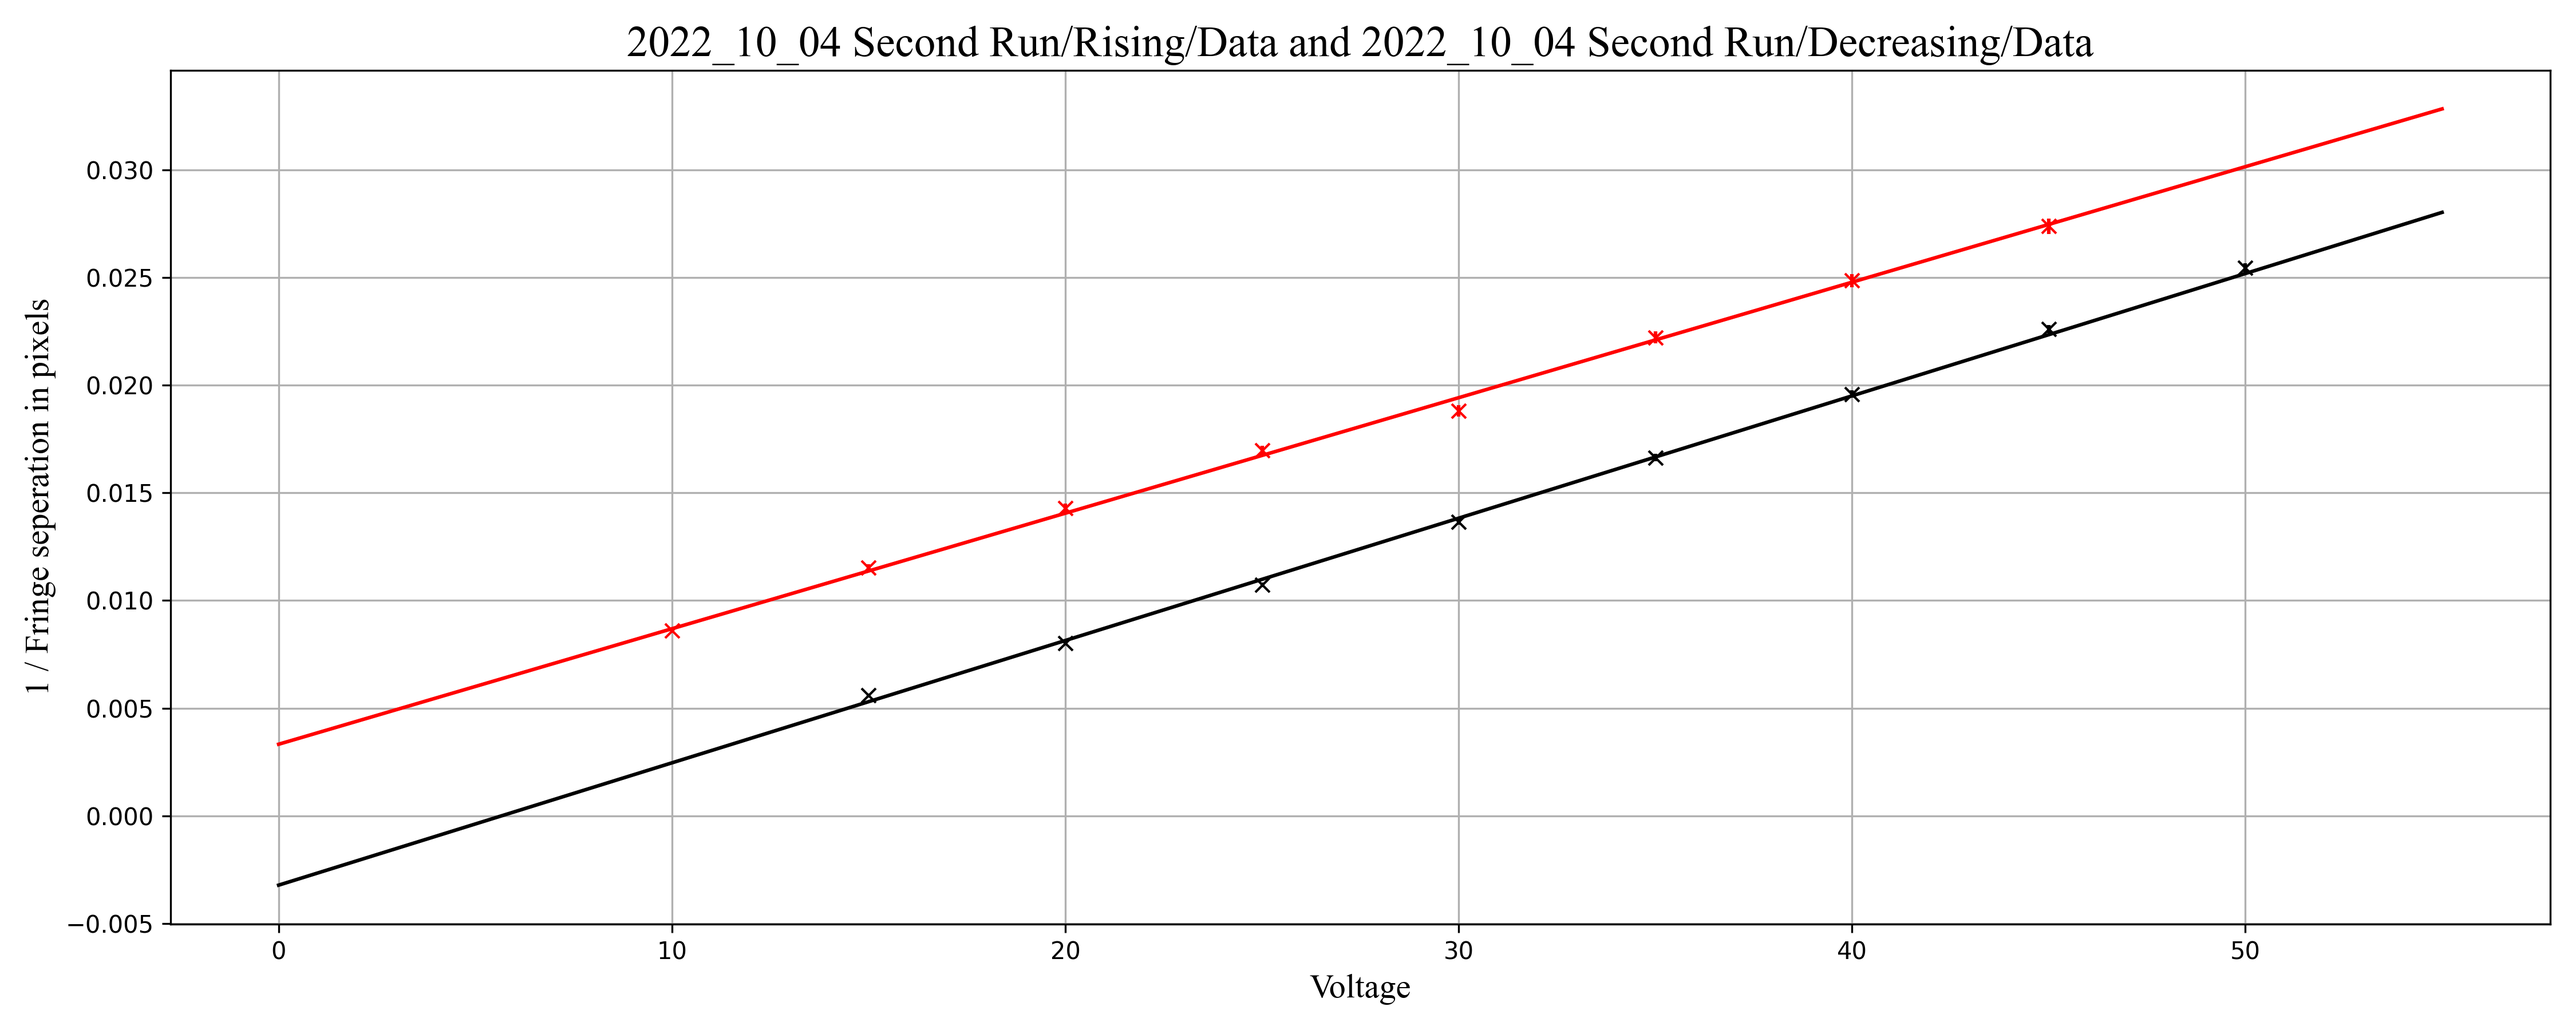
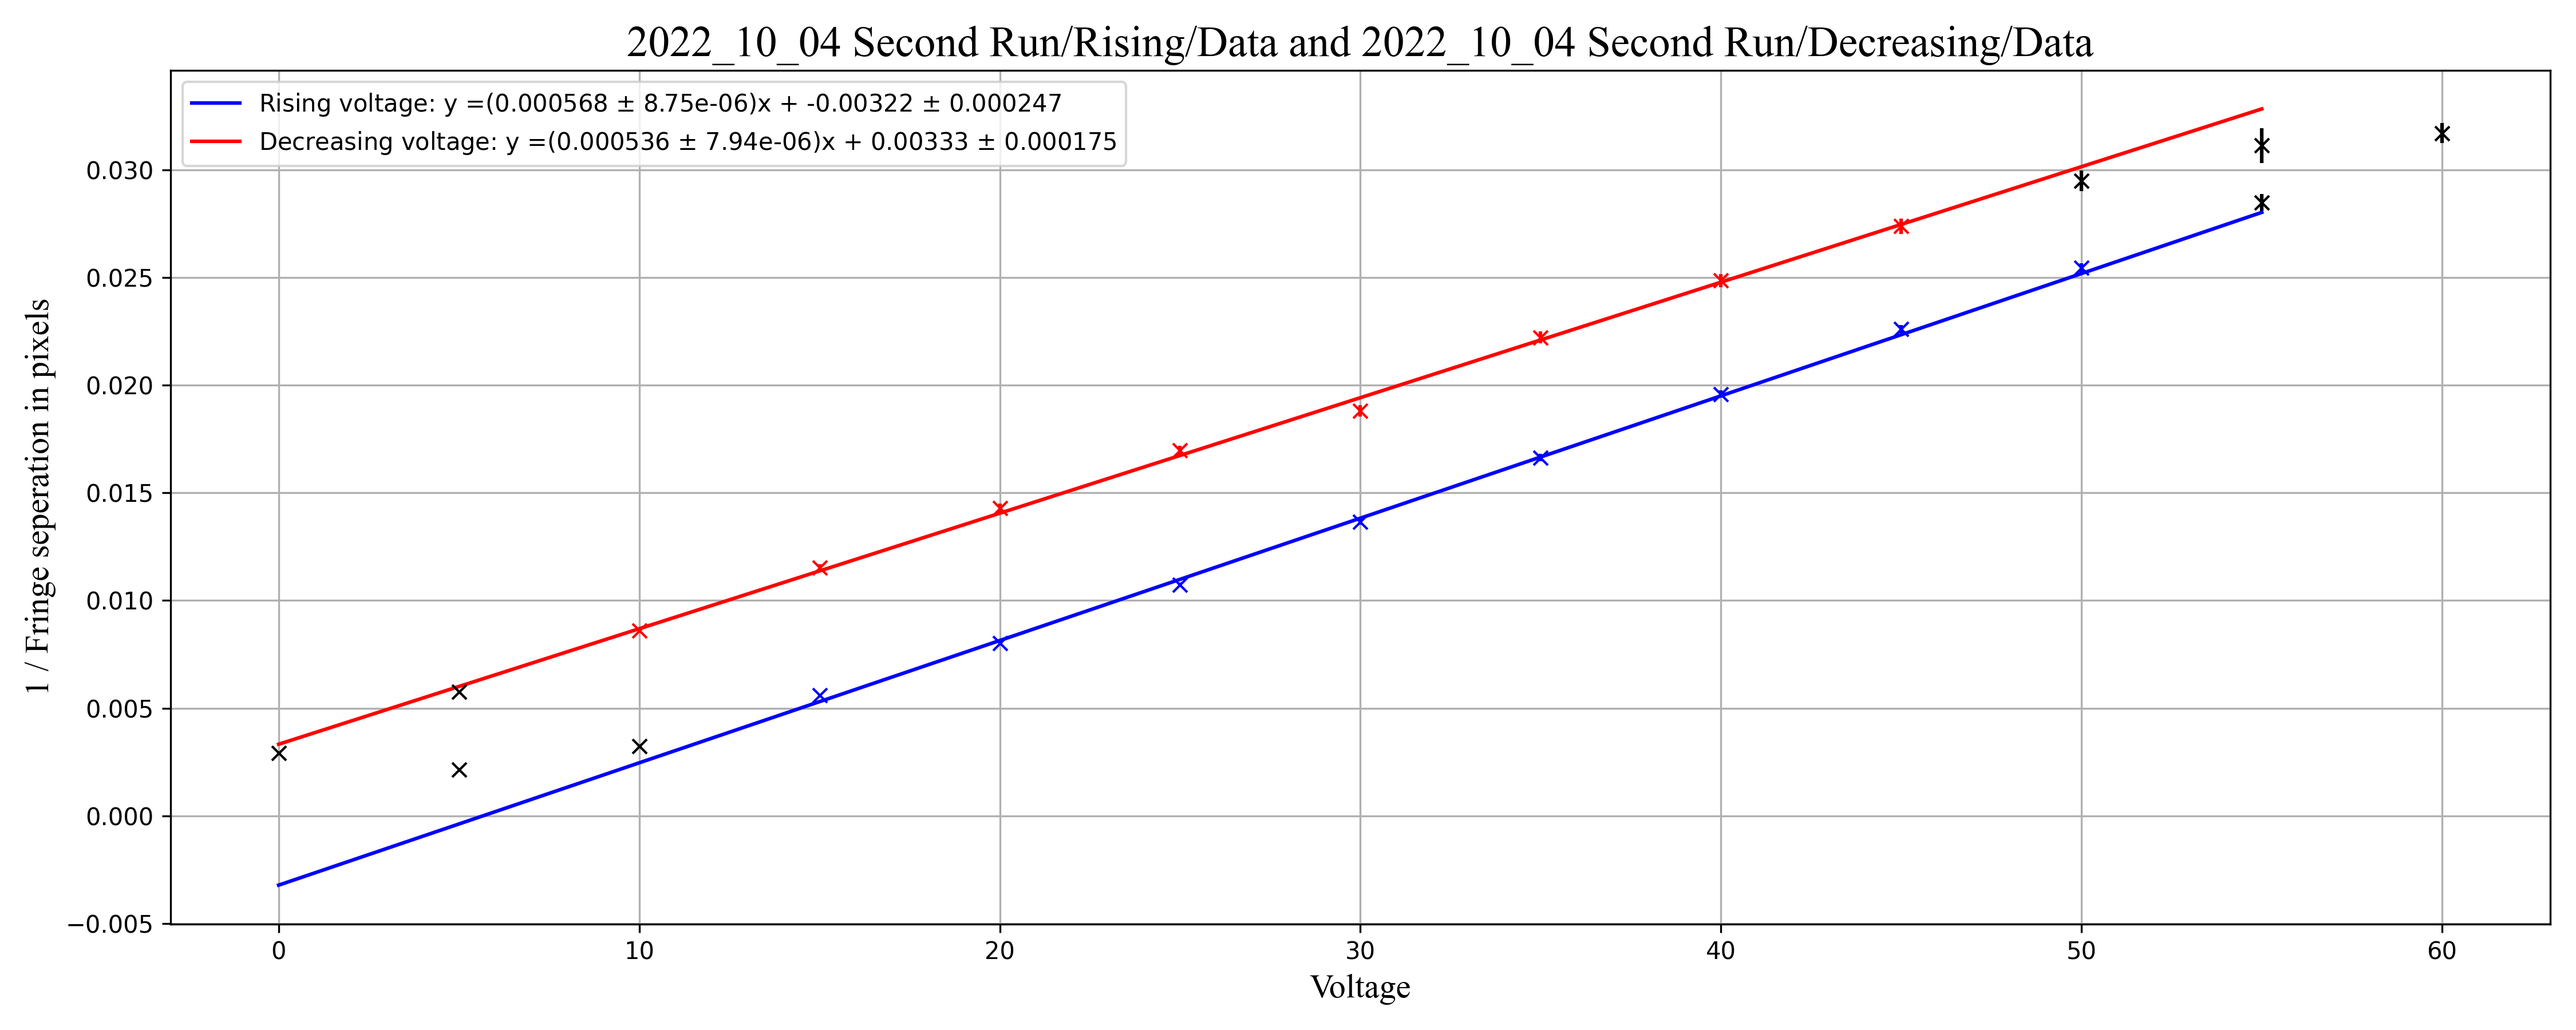
rejig with legend

diff --git a/TVHolography.py b/TVHolography.py
@@ -72,16 +72,37 @@ def plot_averages(data_1, data_2, save_folder):
     axs.set_title(FILENAME_1[: -1] + " and " + FILENAME_2[: -1],
                   fontsize=18, fontfamily='times new roman')
 
-    axs.errorbar(data_1[:, 0], data_1[:, 1], yerr=data_1[:, 2], fmt='kx')
-    axs.errorbar(data_2[:, 0], data_2[:, 1], yerr=data_2[:, 2], fmt='rx')
+    # Non fitted data points
+    axs.errorbar(np.hstack((data_1[:, 0][:2], data_1[:, 0][-2:])),
+                 np.hstack((data_1[:, 1][:2], data_1[:, 1][-2:])),
+                 yerr=np.hstack((data_1[:, 2][:2], data_1[:, 2][-2:])),
+                 fmt='kx')
+    axs.errorbar(np.hstack((data_2[:, 0][:2], data_2[:, 0][-2:])),
+                 np.hstack((data_2[:, 1][:2], data_2[:, 1][-2:])),
+                 yerr=np.hstack((data_2[:, 2][:2], data_2[:, 2][-2:])),
+                 fmt='kx')
+    # fitted data points [2:-2]
+    axs.errorbar(data_1[:, 0][2:-2], data_1[:, 1][2:-2],
+                 yerr=data_1[:, 2][2:-2], fmt='bx')
+    axs.errorbar(data_2[:, 0][2:-2], data_2[:, 1][2:-2],
+                 yerr=data_2[:, 2][2:-2], fmt='rx')
 
-    m_1, c_1, sigma_m_1, sigma_c_1 = find_linear_parameters(data_1)
-    m_2, c_2, sigma_m_2, sigma_c_2 = find_linear_parameters(data_2)
+    m_1, c_1, sigma_m_1, sigma_c_1 = find_linear_parameters(data_1[2:-2])
+    m_2, c_2, sigma_m_2, sigma_c_2 = find_linear_parameters(data_2[2:-2])
 
-    plt.plot(np.linspace(0, 55), m_1*np.linspace(0, 55) + c_1, color='black')
-    plt.plot(np.linspace(0, 55), m_2*np.linspace(0, 55) + c_2, color='red')
+    plt.plot(np.linspace(0, 55), m_1*np.linspace(0, 55) + c_1, color='blue',
+             label="Rising voltage: y =({0:.3g} $\pm$ {1:.3g})x"\
+                   .format(m_1, sigma_m_1)
+                   +" + {0:.1g} $\pm$ {1:.1g}"\
+                   .format(c_1, sigma_c_1))
+    plt.plot(np.linspace(0, 55), m_2*np.linspace(0, 55) + c_2, color='red',
+             label="Decreasing voltage: y =({0:.3g} $\pm$ {1:.1g})x"\
+                    .format(m_2, sigma_m_2)
+                    +" + {0:.3g} $\pm$ {1:.1g}"\
+                    .format(c_2, sigma_c_2))
 
     axs.grid()
+    plt.legend()
 
     plt.tight_layout()
     plt.savefig(save_folder + "Voltage against (average fringe seperation)^-1",
@@ -114,8 +135,8 @@ def main():
         else:
             print("No (valid) files provided, ending program")
 
-    plot_averages(np.sort(averages_1, axis=0)[2:-2],
-                  np.sort(averages_2, axis=0)[2:-2], SAVE_FOLDER_AVERAGES)
+    plot_averages(np.sort(averages_1, axis=0),
+                  np.sort(averages_2, axis=0), SAVE_FOLDER_AVERAGES)
 
 
 main()

diff --git a/Functions.py b/Functions.py
@@ -56,5 +56,5 @@ def find_linear_parameters(data):
               ' parameters, please run code again and input different'
               ' starting guesses')
 
-    return expected[0], expected[1], np.sqrt(uncertainty[0, 0])
-    np.sqrt(uncertainty[1, 1])
+    return expected[0], expected[1],\
+           np.sqrt(uncertainty[0, 0]), np.sqrt(uncertainty[1, 1])
